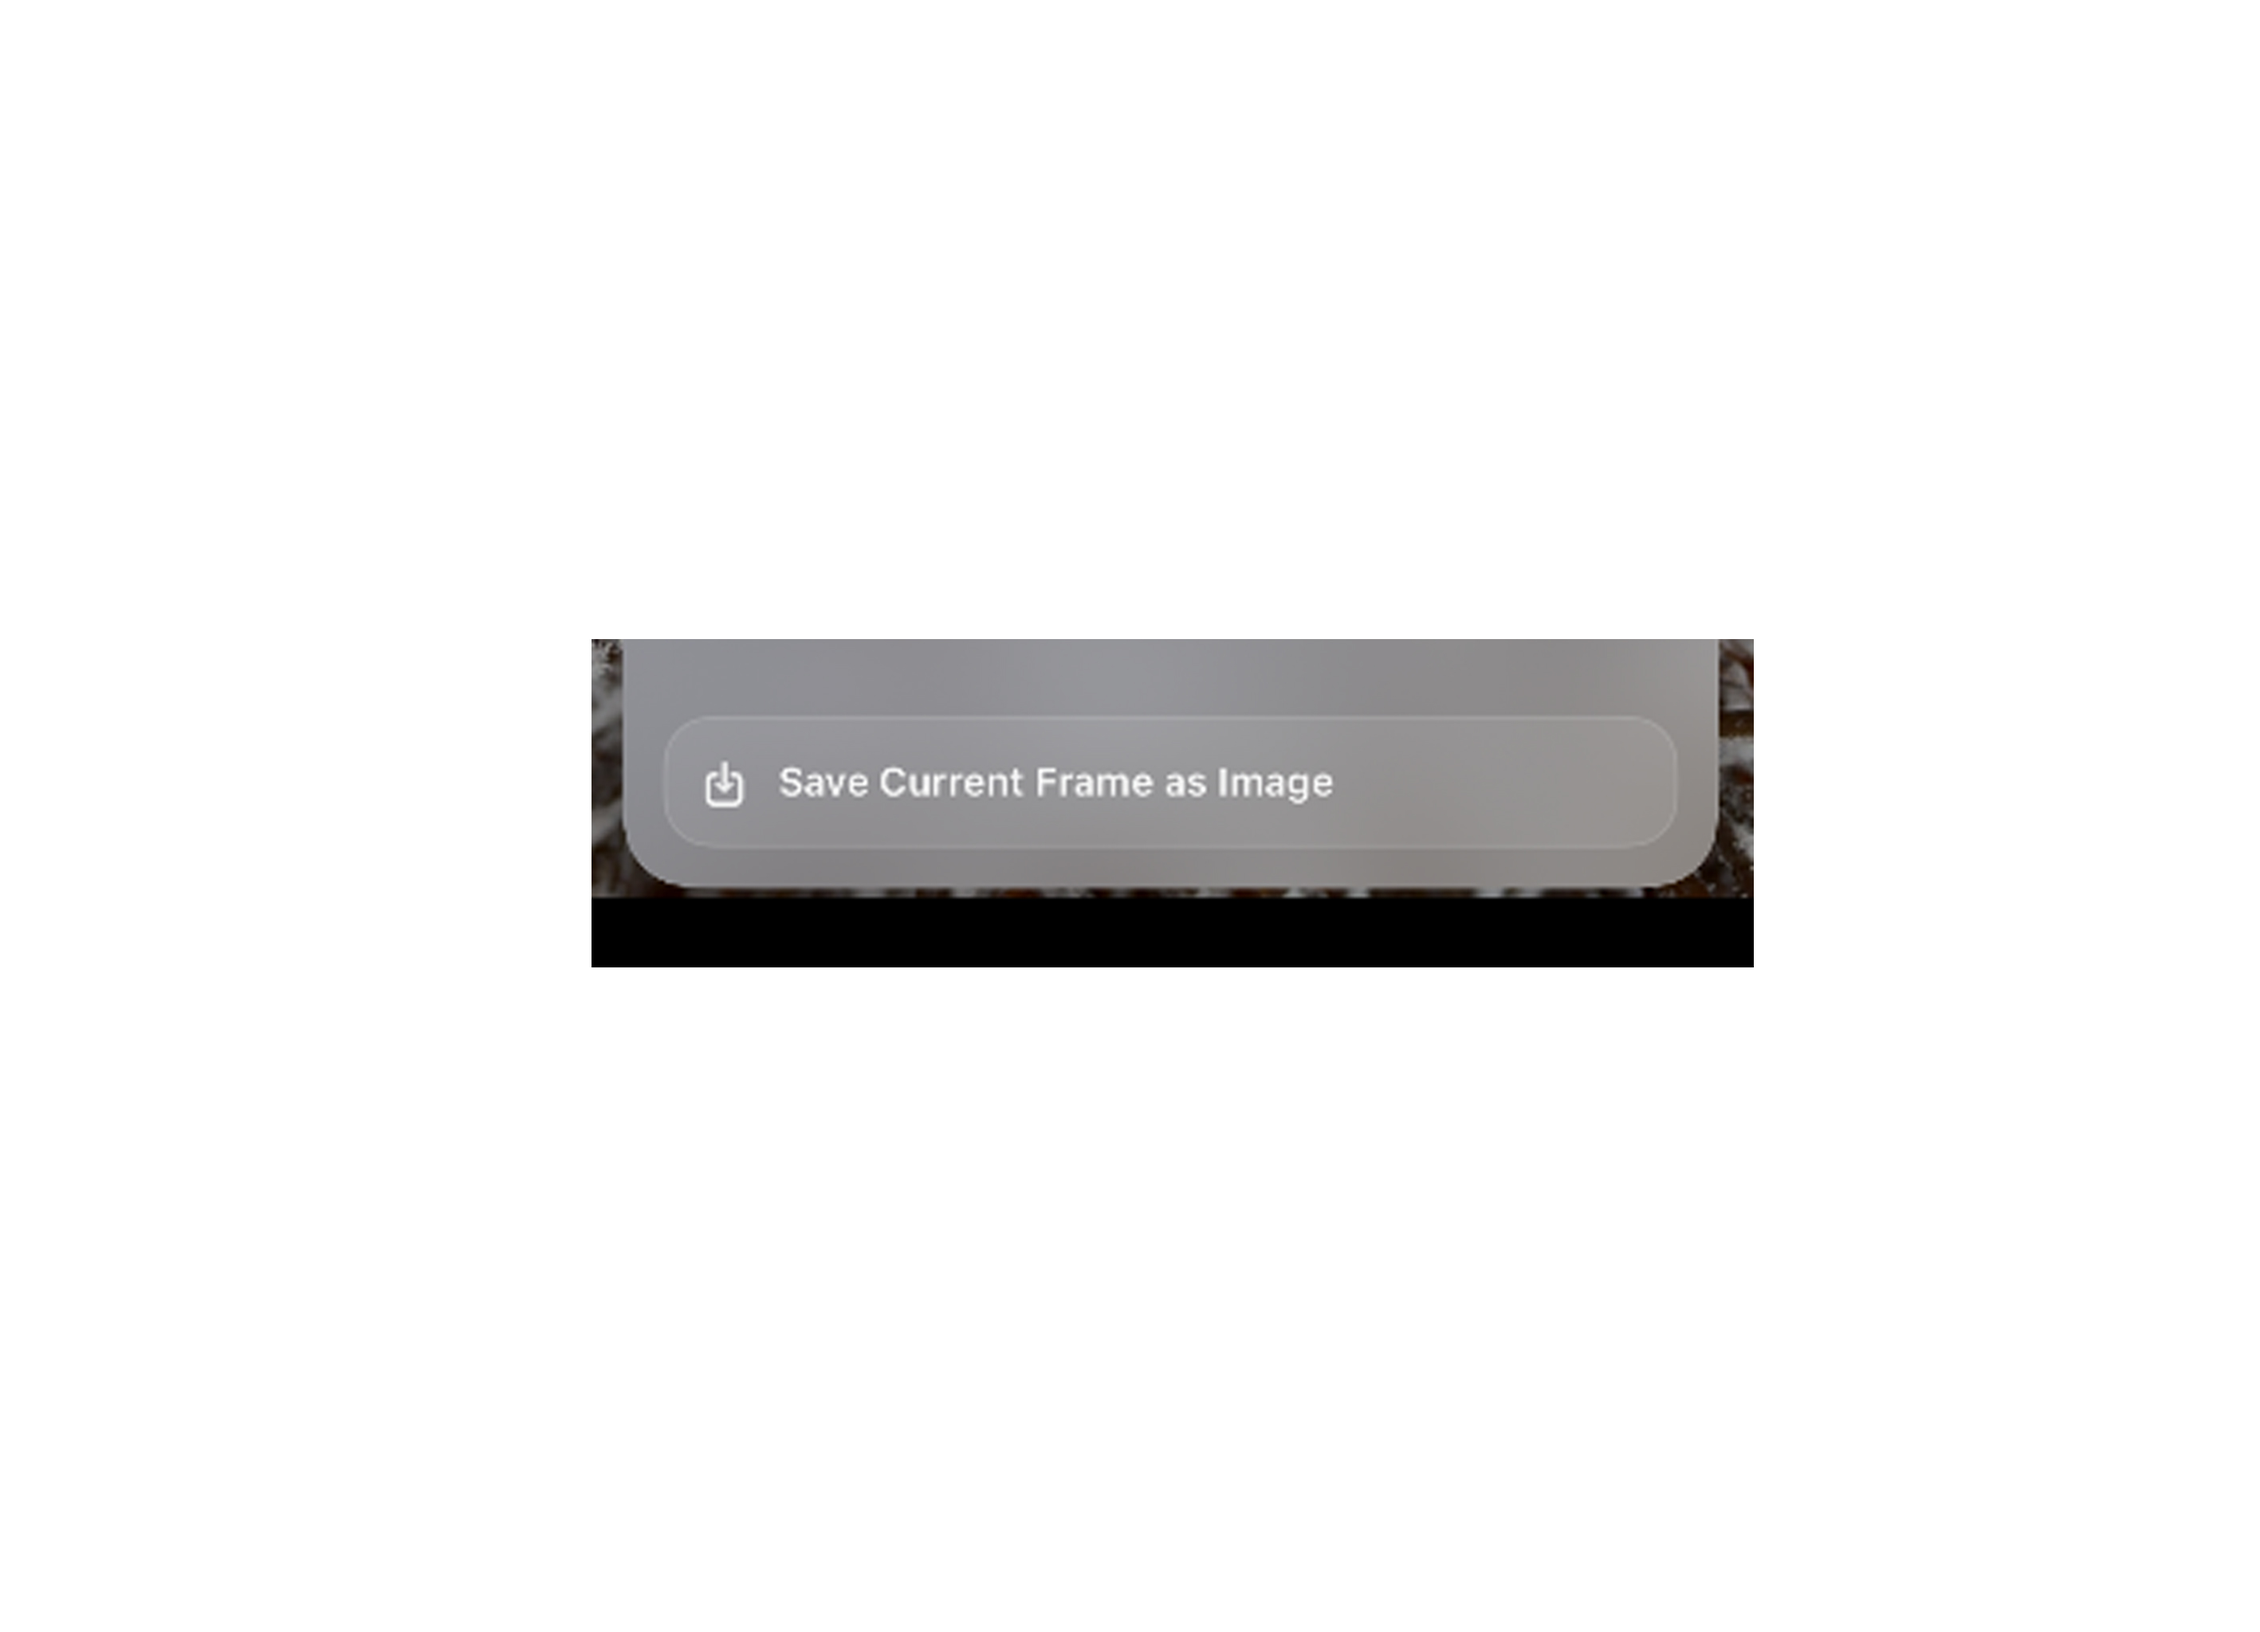
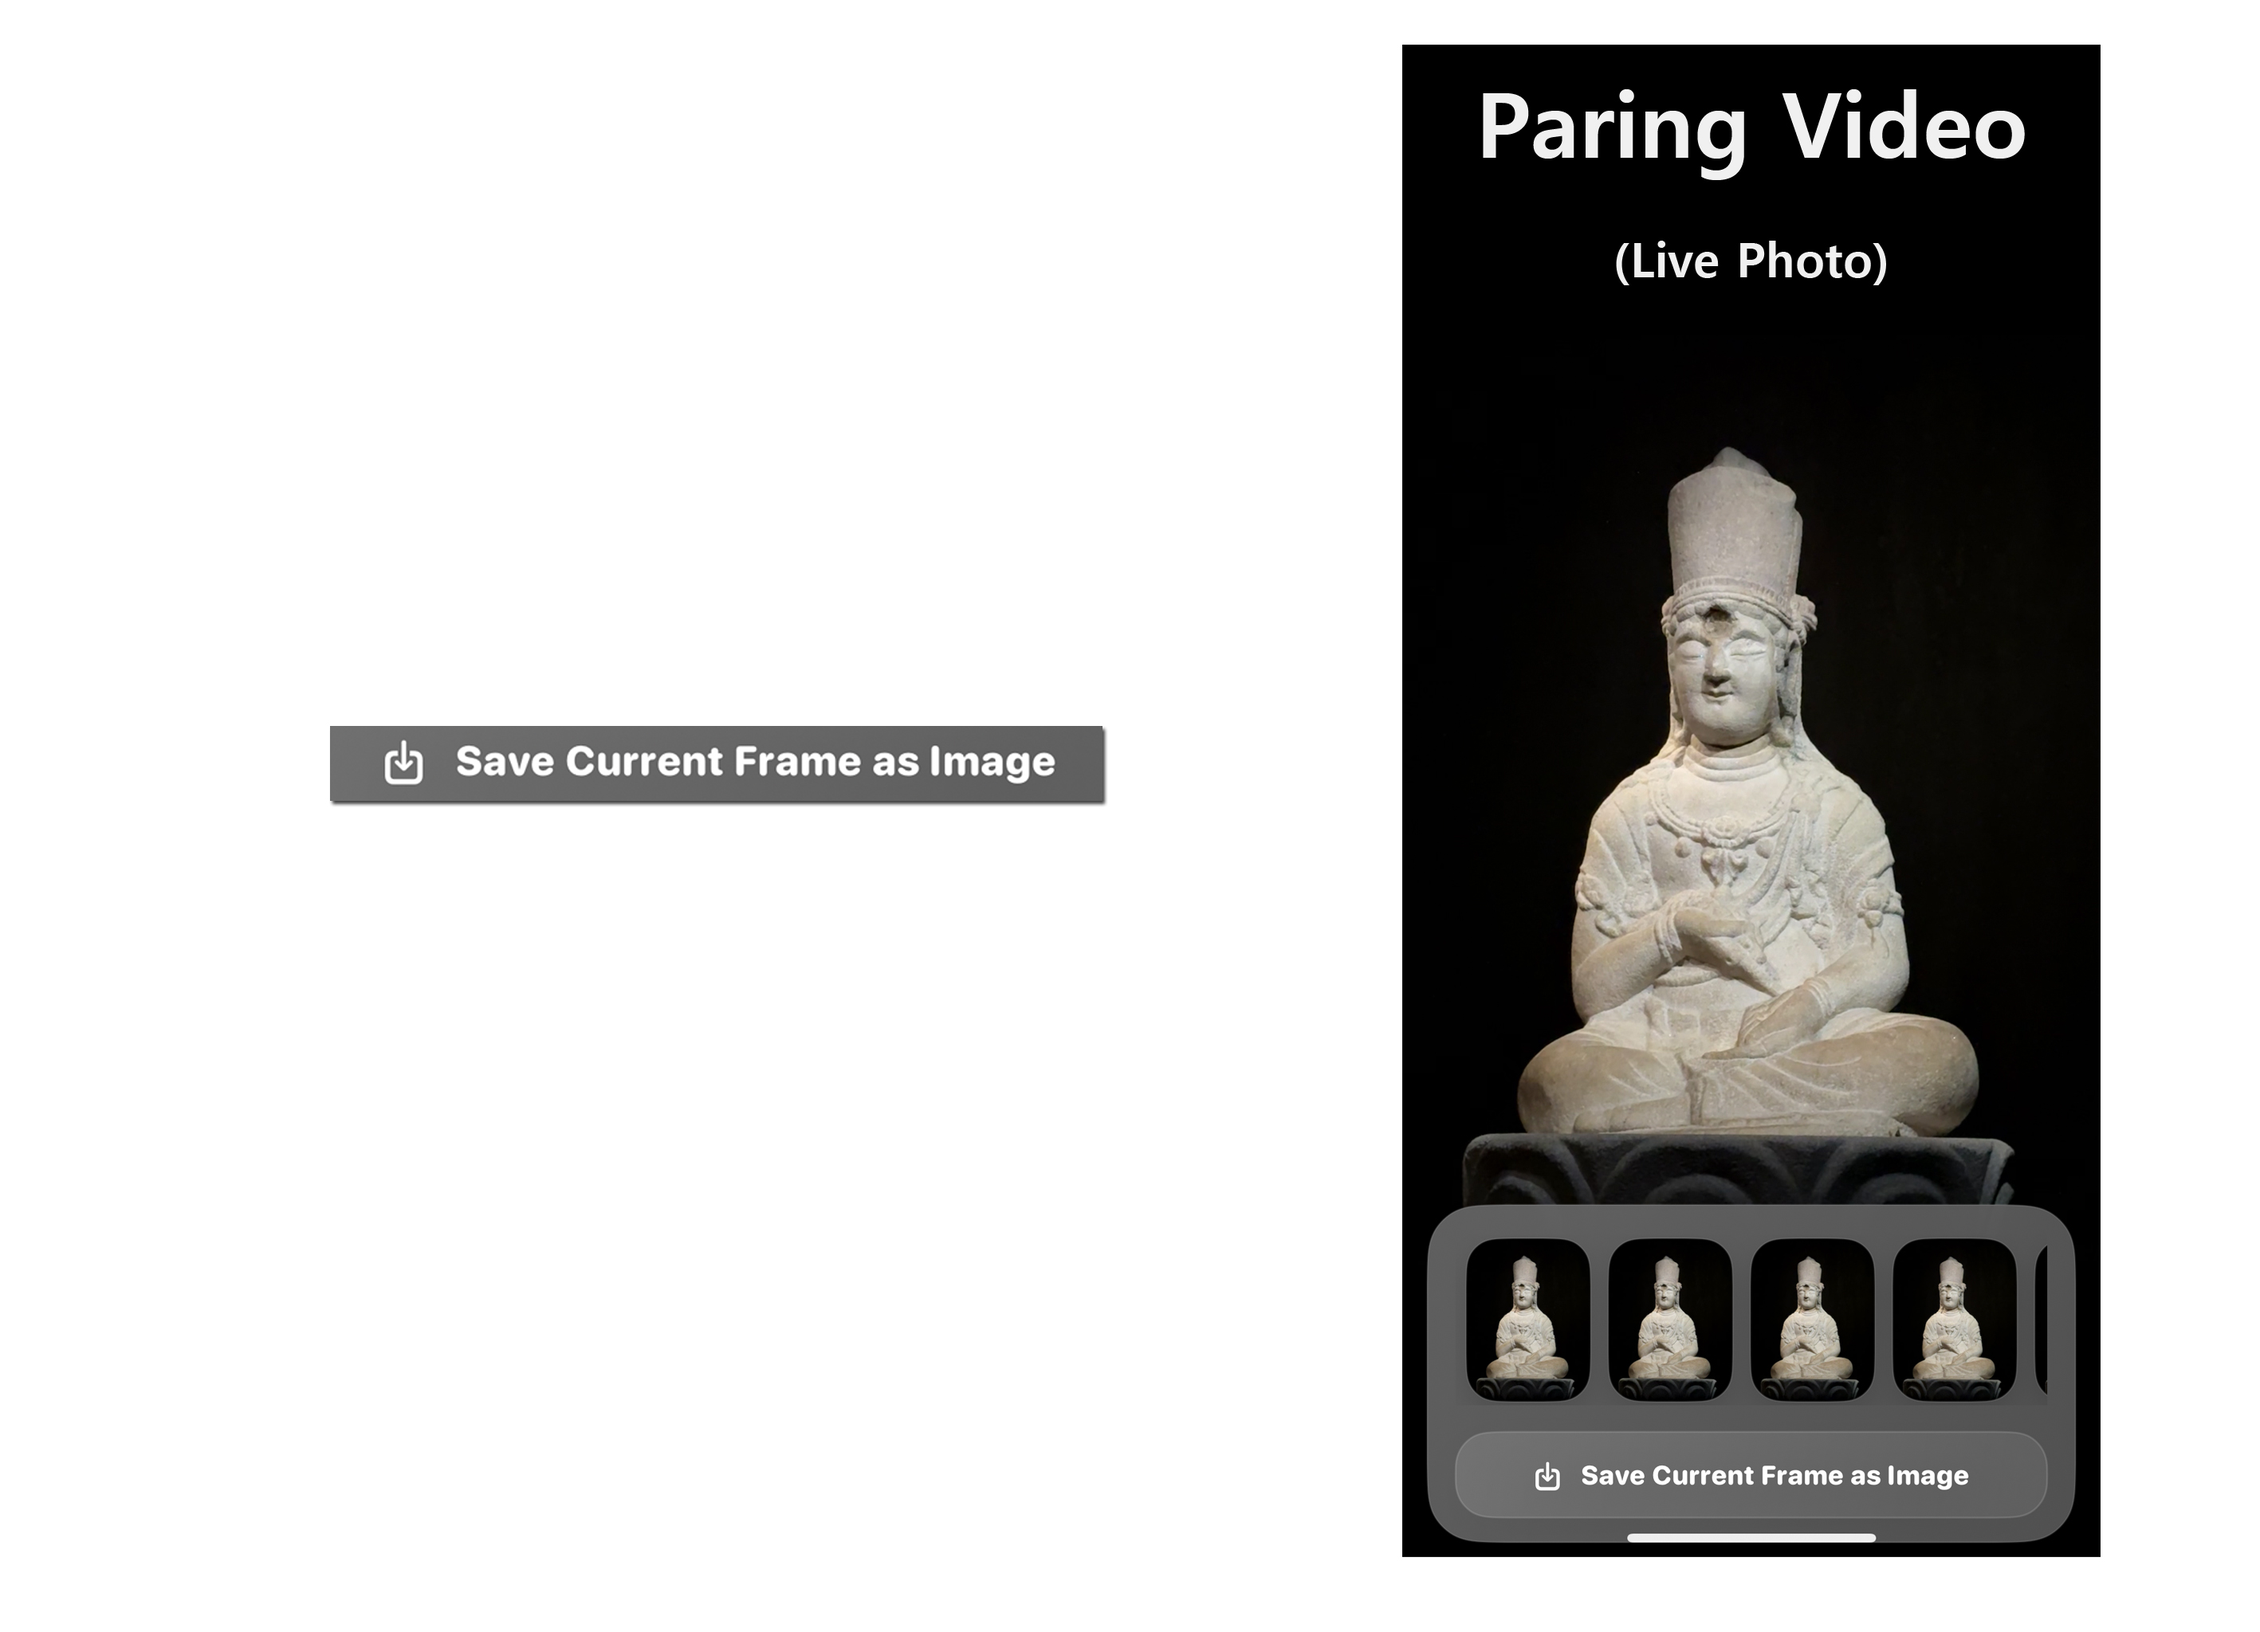
Add files via upload

diff --git a/guide.html b/guide.html
@@ -227,6 +227,7 @@
                             <div class="guide-copy">
                                 <h3>Save Video Frame</h3>
                                 <p>Save a desired moment from a video as an image. It is saved while preserving the original resolution.</p>
+								<p>This feature works the same way in the paired video (Live Photo) viewer as well. When you long-press the paired video, Live Photo frames appear at the bottom, and you can save them using the same frame save button.</p>
                                 <ul>
                                     <li>Play a video from the server</li>
                                     <li>Long-press the video to view metadata</li>

diff --git a/update.html b/update.html
@@ -38,8 +38,16 @@
             </div>
 
             <div class="guide-list">
-
+			
                 <details class="guide-item" open>
+                    <summary>v3.2</summary>
+                    <div class="guide-content">
+                        <p>1. Added frame saving for paired Live Photos</p>
+						<p>2. UI improvements and other bug fixes</p>
+                    </div>
+                </details>
+
+                <details class="guide-item">
                     <summary>v3.1</summary>
                     <div class="guide-content">
                         <p>Added a PRO-exclusive thumbnail cache backup and restore feature</p>
